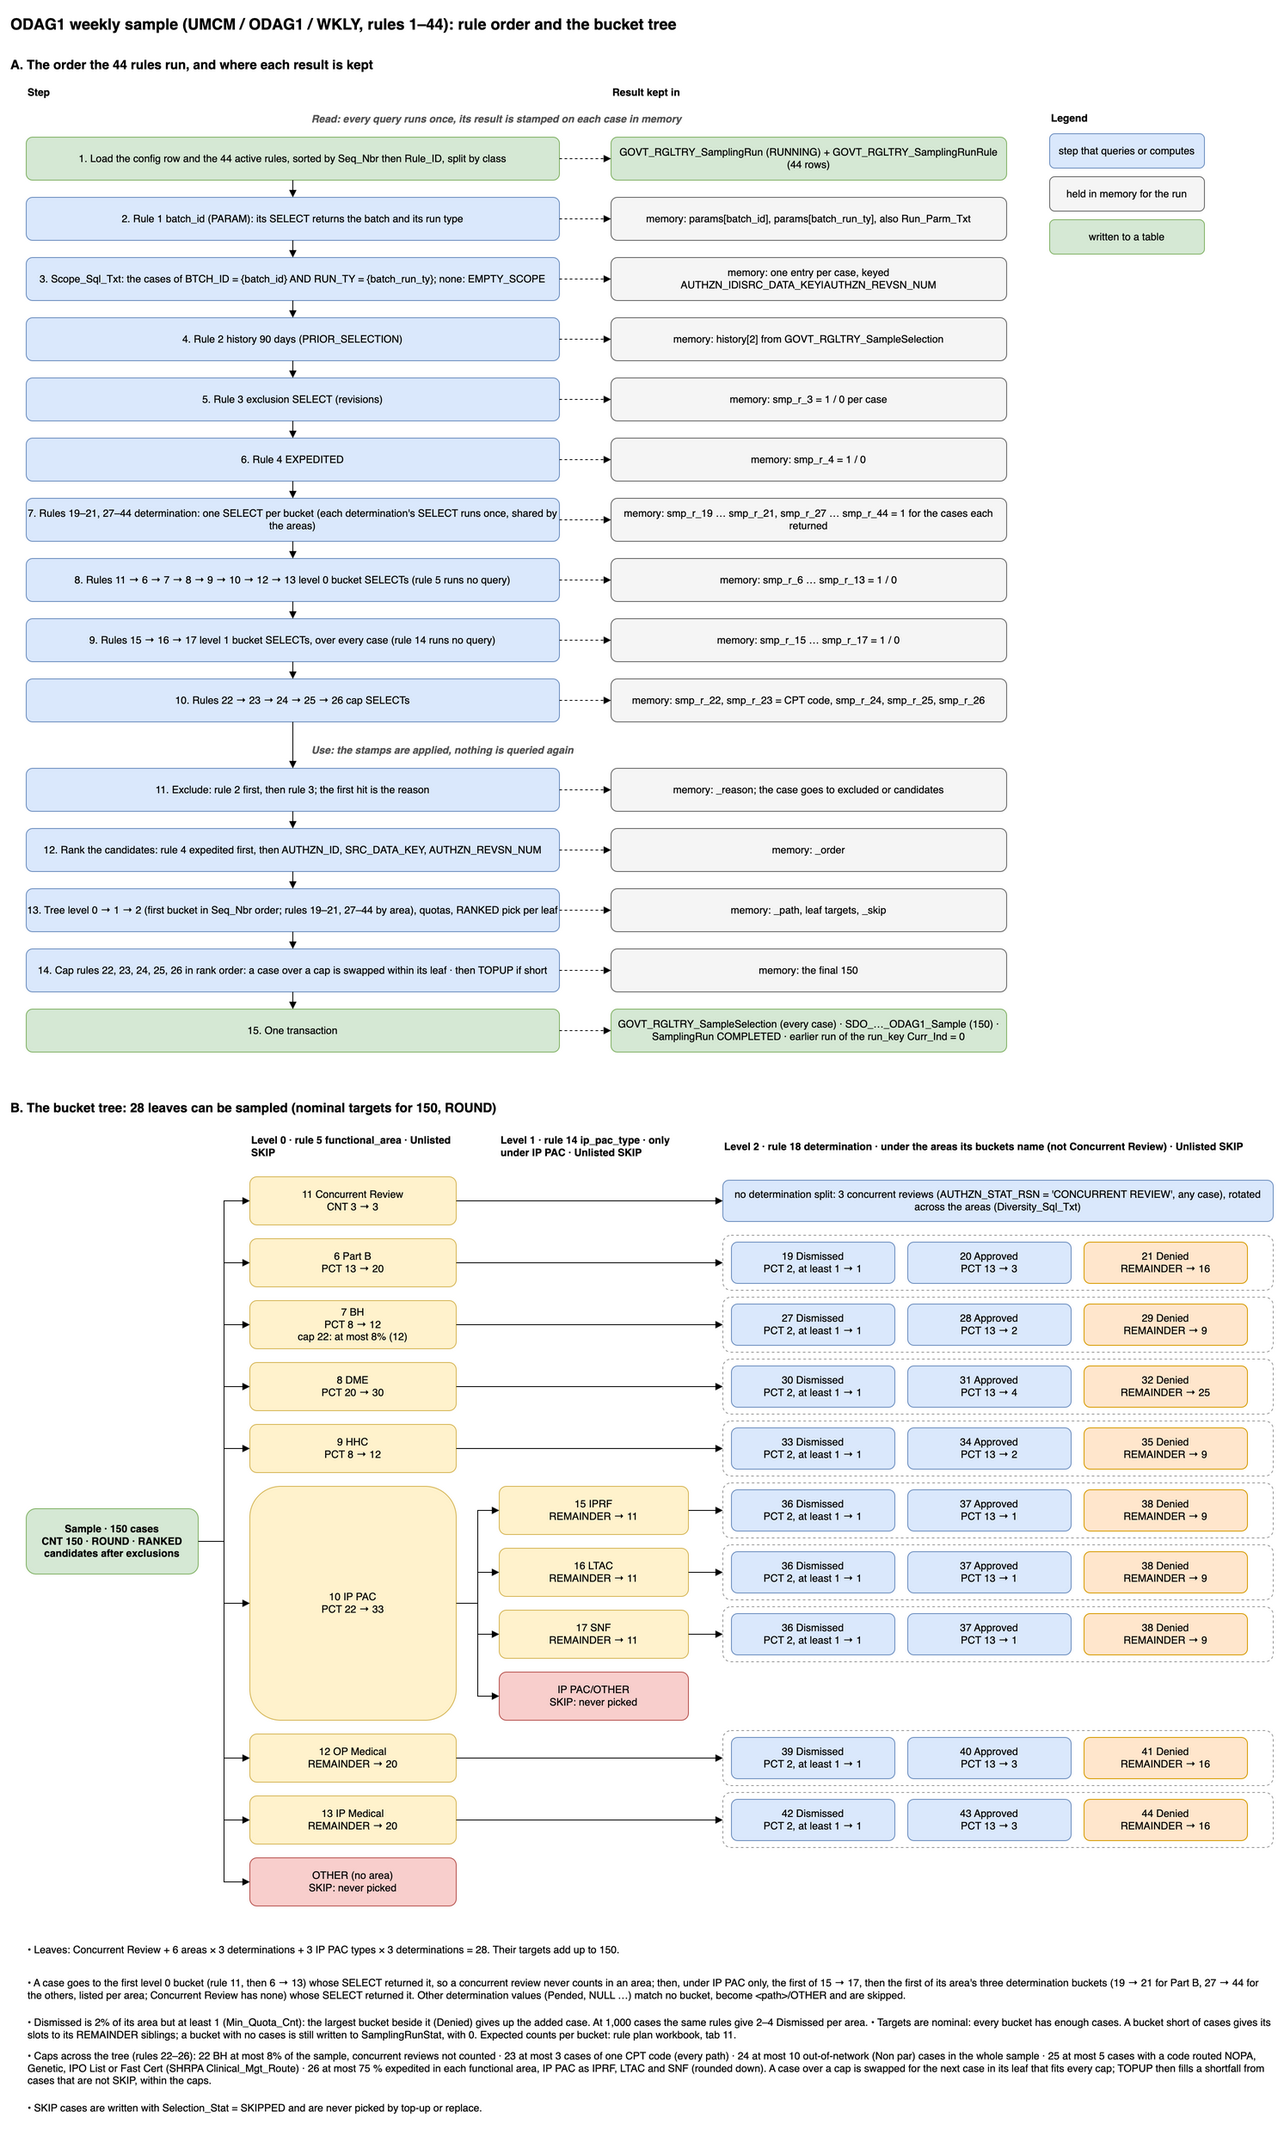
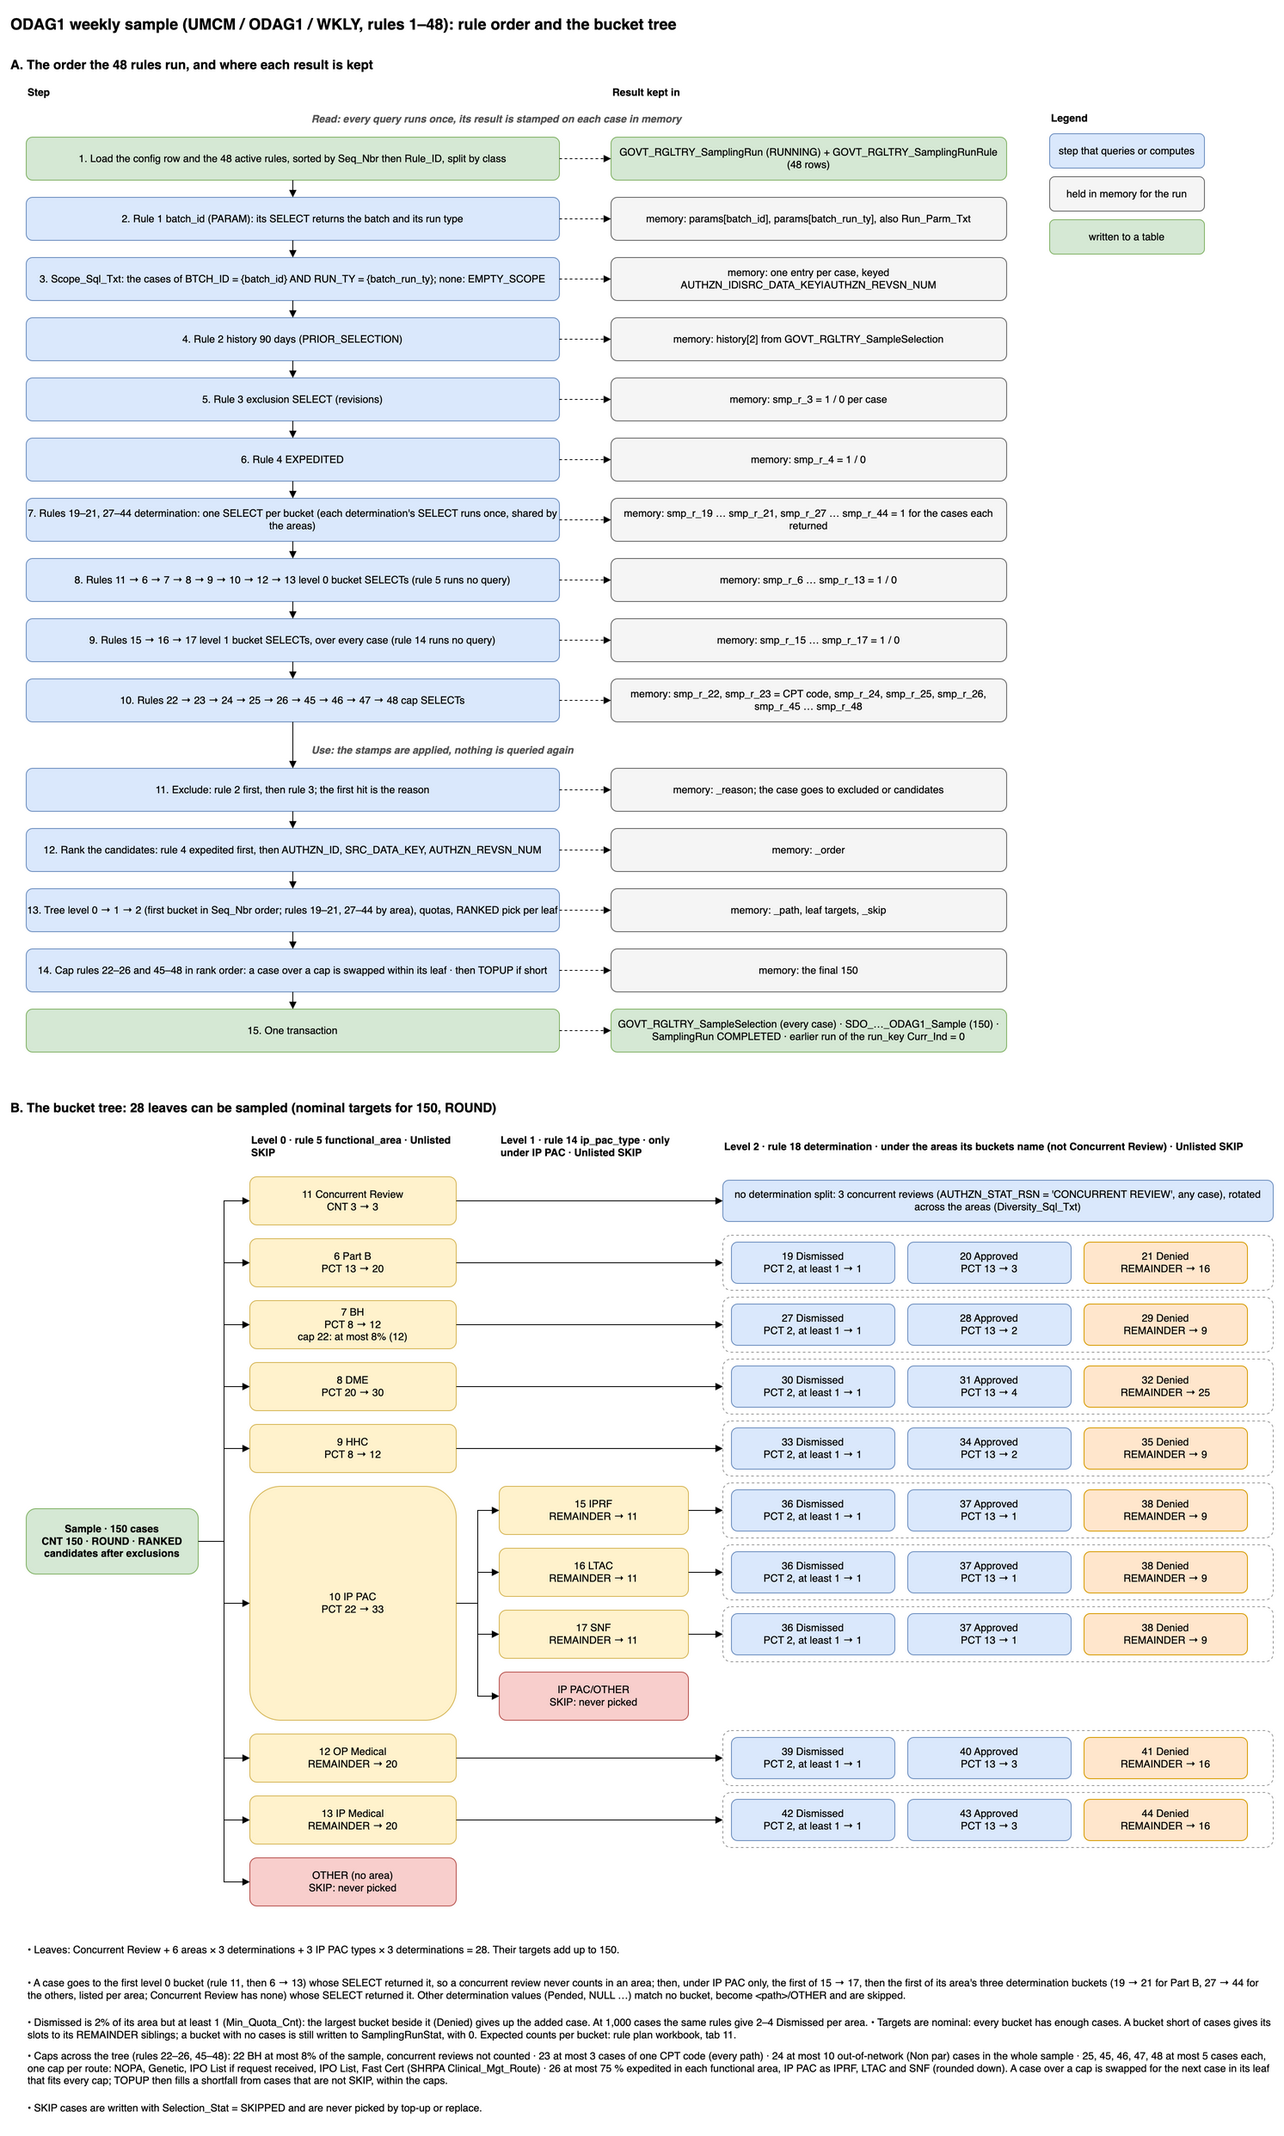
Cap each Source of Truth route at 5 cases a week
Rule 25 capped NOPA, Genetic, IPO List and Fast Cert cases together at 5.
Each route now has its own cap of 5, the two IPO List texts separately:
rule 25 NOPA_MAX_5 plus 45 GENETIC_MAX_5, 46 IPO_LIST_IF_RECEIVED_MAX_5,
47 IPO_LIST_MAX_5 and 48 FAST_CERT_MAX_5.

Changed region(s): [[0.0308, 0.961, 0.9859, 0.9919], [0.493, 0.31, 0.7703, 0.341]]

diff --git a/tests/test_route_caps.py b/tests/test_route_caps.py
@@ -1,0 +1,36 @@
+from datetime import date
+
+from conftest import insert_bucket, insert_config, insert_rule, key
+from sampling.engine import run_sampling
+
+AS_OF = date(2026, 8, 7)
+ROUTES = ("NOPA", "GENETIC", "IPO_IF_RECEIVED", "IPO", "FAST_CERT")
+SELECTED = "SELECT u.route, COUNT(*) FROM GOVT_RGLTRY_SampleSelection s JOIN u ON s.Case_Key = 'case_id=' || u.case_id " \
+           "WHERE s.Selected_Ind = 1 GROUP BY u.route"
+
+
+def _setup(db, target):
+    db.execute("CREATE TABLE u (case_id VARCHAR, route VARCHAR)")
+    rows = [(f"a{n}{i:02d}", route) for n, route in enumerate(ROUTES) for i in range(8)]
+    rows += [(f"z{i:03d}", "OTHER") for i in range(200)]
+    db.executemany("INSERT INTO u VALUES (?, ?)", rows)
+    insert_config(db, src_table_nm="u", exclusion_sql=None, scope_sql_txt=None, target_cnt=target, order_by="case_id")
+    insert_rule(db, "LEVEL", 1, "all", seq_nbr=1, level_nbr=0, unlisted_cd="SKIP")
+    insert_bucket(db, 2, 0, "All", seq_nbr=1, quota_cd="REMAINDER", rule_sql_txt="1 = 1")
+    for n, route in enumerate(ROUTES):
+        insert_rule(db, "CAP", 20 + n, f"{route}_MAX_5", seq_nbr=20 + n, rule_ty="QUERY", parent_path_txt="*",
+                    max_ty="CNT", max_val=5, rule_sql_txt=f"SELECT case_id FROM main.u WHERE route = '{route}'",
+                    raw_sql=True)
+
+
+def test_each_route_has_its_own_cap_of_five(raw, conn, settings):
+    _setup(raw.db, 60)
+    out = run_sampling(conn, settings, key(1), run_key="K", as_of=AS_OF)
+    assert out["status"] == "COMPLETED", out.get("error")
+    assert out["selected"] == 60
+    counts = dict(raw.db.execute(SELECTED).fetchall())
+    assert {r: counts.get(r, 0) for r in ROUTES} == {r: 5 for r in ROUTES}
+    assert counts["OTHER"] == 35
+    for route in ROUTES:
+        assert out["caps"][f"{route}_MAX_5"]["limit"] == 5
+        assert out["caps"][f"{route}_MAX_5"]["over"] == 3

diff --git a/airflow_resources/docs/OPEN_ITEMS.md b/airflow_resources/docs/OPEN_ITEMS.md
@@ -24,7 +24,7 @@ any answer: they become rows.
 | Q15 | The framework's metadata database per environment (the one holding `GOVT_RGLTRY_RequestControl`: `HSABC_DEV` in its example Variable), whether Teradata grants the sampling service account SELECT on it, and ODAG1's `Project_Cd` there (`CMSUNIV` in its example setup). Is the sampling source `SDO_GOVT_RGLTRY_CLNCL_AUD_UM_AUTHZN_ODAG1` (template) or the framework's export `SDO_CMSUNIV_ODAG1_2022`, and does it carry `BTCH_ID`? **Decided 2026-10-30:** `GOVT_RGLTRY_RequestControl` is in `HSABC_$ENV` (`HSABC_DEV` in DEV, `HSABC` in UAT / PROD), written that way in the PARAM rule; the sampling service account can read it. **Answered 2026-11-04:** ODAG1's `Project_Cd` in `GOVT_RGLTRY_RequestControl` is `UMCM` (the sample's own `{project_cd}`); the scope does not filter on the source's `RUN_TY` (the batch decides; **changed 2026-11-16:** rule 1 also returns the batch's `Run_Ty` from `GOVT_RGLTRY_RequestControl` as `{batch_run_ty}`, the scope and every rule filter on `RUN_TY = '{batch_run_ty}'`, and the run fails with `EMPTY_SCOPE` when ODAG1 has no current rows for that batch and run type; a run given `batch_id` and `batch_run_ty` uses them without reading `GOVT_RGLTRY_RequestControl`); the source is `EXPORT_FEED_$ENV_T.SDO_GOVT_RGLTRY_CLNCL_AUD_UM_AUTHZN_ODAG1`, which carries `BTCH_ID` (its DDL was given). | PARAM `batch_id`, `Src_Schema_Nm` / `Src_Table_Nm`, `Scope_Sql_Txt` |
 | Q16 | For the 6-monthly revalidation (8.01): does `HSLABBOSS.UMCM_SHRPA_PROCEDURE_CODES` keep its old row versions with `ETL_LOAD_DT_TM` / `ETL_LAST_UPDT_DT_TM` as ODAG1 does (answered 2026-11-13: ODAG1 keeps them, closed by `ETL_LAST_UPDT_DT_TM`)? **Answered 2026-11-13:** yes: rules 211 and 212 read it with `{current_rows:s}`, so a replay sees SHRPA as it was when the run started. **Changed 2026-11-18:** 211 and 212 are dropped; cap 25 reads SHRPA the same way | cap 25 |
 | Q18 | What Pre Cert cases are and how to identify them on the auths **Open 2026-11-16:** the business is looking into it, ETA Tuesday 2026-11-17. Until then Pre Cert is not used (Q2) | a level 0 BUCKET rule |
-| Q19 | Codes the Source of Truth caps at 5 a week **Answered 2026-11-18:** column R of the Source of Truth is SHRPA's `Clinical_Mgt_Route`. A case counts when any code of `CPT_PROC_CD` has one of these routes (without the 'Cap at 5 per week' comment; **changed 2026-11-18:** compared with every space and hyphen removed and in capitals, `UPPER(OREPLACE(OREPLACE(Clinical_Mgt_Route, ' ', ''), '-', ''))`, by keywords rather than the full text, so spacing, hyphens, case and extra words do not matter: `LIKE` `'%NOPA%APPROVEPAR%PENDOON%'`, `'%FASTCERT%APPROVEPAR%PENDOON%'`, `'%GENETIC%ADMINISTRATIVELYAPPROVE%NONETWORKREVIEW%'`, `'%IPOLIST%APPROVEANDPLACEINCONCURRENTREVIEW%'`. Checked against all 33 values of the column: only the five routes match; `NOPA - Non Covered`, `NOPA`, `ASC Site of Service Fast Cert - …`, `Genetic Testing: …` and `IPO List. Medical Necessity Review Required …` do not): `NOPA - Approve PAR.  Pend OON.`, `Genetic:  Administratively Approve - No Network Review Required`, `IPO List.  Approve and place in concurrent review if request received.`, `IPO List.  Approve and place in Concurrent Review`, `Fast Cert - Approve PAR.  Pend OON.` All of them share one cap of 5 cases in the 150. **Checked 2026-11-18** against the column's values: the texts are as the data has them (two spaces after `PAR.`, after `Genetic:` and after `IPO List.`; no full stop after the second IPO List text; `concurrent review` in lower case in the first) | CAP rule 25 |
+| Q19 | Codes the Source of Truth caps at 5 a week **Answered 2026-11-18:** column R of the Source of Truth is SHRPA's `Clinical_Mgt_Route`. A case counts when any code of `CPT_PROC_CD` has one of these routes (without the 'Cap at 5 per week' comment; **changed 2026-11-18:** compared with every space and hyphen removed and in capitals, `UPPER(OREPLACE(OREPLACE(Clinical_Mgt_Route, ' ', ''), '-', ''))`, by keywords rather than the full text, so spacing, hyphens, case and extra words do not matter: `LIKE` `'%NOPA%APPROVEPAR%PENDOON%'`, `'%FASTCERT%APPROVEPAR%PENDOON%'`, `'%GENETIC%ADMINISTRATIVELYAPPROVE%NONETWORKREVIEW%'`, `'%IPOLIST%APPROVEANDPLACEINCONCURRENTREVIEW%'`. Checked against all 33 values of the column: only the five routes match; `NOPA - Non Covered`, `NOPA`, `ASC Site of Service Fast Cert - …`, `Genetic Testing: …` and `IPO List. Medical Necessity Review Required …` do not): `NOPA - Approve PAR.  Pend OON.`, `Genetic:  Administratively Approve - No Network Review Required`, `IPO List.  Approve and place in concurrent review if request received.`, `IPO List.  Approve and place in Concurrent Review`, `Fast Cert - Approve PAR.  Pend OON.` **Changed 2026-11-19:** each route has its own cap of 5 cases a week, the two IPO List texts separately (rules 25, 45, 46, 47, 48; at most 25 such cases in the 150), replacing one shared cap of 5. A case with codes in two routes counts towards both caps. **Checked 2026-11-18** against the column's values: the texts are as the data has them (two spaces after `PAR.`, after `Genetic:` and after `IPO List.`; no full stop after the second IPO List text; `concurrent review` in lower case in the first) | CAP rules 25, 45–48 |
 
 ## B. Data the requirements need that sampling cannot supply
 
@@ -54,7 +54,7 @@ historic data requirement), and the concurrent review flag (confirmed 2026-11-16
 
 ## D. The ODAG1 rows known so far (sample `UMCM` / `ODAG1` / `WKLY`, to enter with `Active_Ind = 0`)
 
-**Added 2026-11-19:** the determination buckets are listed per area (rules 27–44 added, 44 rules), replacing the parent `[!C]*`, which matched any area starting with C. A new area gets no determination split until its three rows are added. **Changed 2026-11-19:** the config's `Run_Key_Txt` `{batch_id}` sets the run key, so every run is tied to its batch (a `run_key` in the Variable or a trigger that differs fails the run); every text comparison in the rules and the dashboard views is `UPPER(TRIM(col)) = 'UPPER VALUE'`, so a value's case never decides whether it matches; Dismissed is `PCT` 2 with a new rule column `Min_Quota_Cnt` 1 per area (and per IP PAC type), so it is at least 1 case where 2 % rounds to 0 and still 2 % when the sample grows (1,000 cases), the largest bucket of the area giving up the added case; concurrent reviews rotate across the areas and do not count against the BH cap; the executed SQL is kept whole (`CLOB`). **Renumbered 2026-11-18:** the rule IDs are now 1–26 in run order. Old to new: 201→1, 210→2, 214→3, 221→4, 231→5, 232→6, 233→7, 234→8, 235→9, 236→10, 237→11, 238→12, 239→13, 241→14, 242→15, 243→16, 244→17, 251→18, 252→19, 253→20, 254→21, 260→22, 261→23, 262→24, 263→25, 271→26. IDs 211, 212, 213 and 220 were dropped before the renumbering and have no new ID. Answers in section A were rewritten to the new IDs where the rule still exists. The reload deletes `WHERE Project_Cd = 'UMCM'` instead of `Rule_ID BETWEEN 200 AND 299`. A one-line summary of every rule is in `ODAG1_WKLY_RULES.md`.
+**Changed 2026-11-19:** the capped routes (Q19) have one cap of 5 each: rule 25 `NOPA_MAX_5` plus 45 `GENETIC_MAX_5`, 46 `IPO_LIST_IF_RECEIVED_MAX_5`, 47 `IPO_LIST_MAX_5` and 48 `FAST_CERT_MAX_5` (48 rules). **Added 2026-11-19:** the determination buckets are listed per area (rules 27–44 added, 44 rules), replacing the parent `[!C]*`, which matched any area starting with C. A new area gets no determination split until its three rows are added. **Changed 2026-11-19:** the config's `Run_Key_Txt` `{batch_id}` sets the run key, so every run is tied to its batch (a `run_key` in the Variable or a trigger that differs fails the run); every text comparison in the rules and the dashboard views is `UPPER(TRIM(col)) = 'UPPER VALUE'`, so a value's case never decides whether it matches; Dismissed is `PCT` 2 with a new rule column `Min_Quota_Cnt` 1 per area (and per IP PAC type), so it is at least 1 case where 2 % rounds to 0 and still 2 % when the sample grows (1,000 cases), the largest bucket of the area giving up the added case; concurrent reviews rotate across the areas and do not count against the BH cap; the executed SQL is kept whole (`CLOB`). **Renumbered 2026-11-18:** the rule IDs are now 1–26 in run order. Old to new: 201→1, 210→2, 214→3, 221→4, 231→5, 232→6, 233→7, 234→8, 235→9, 236→10, 237→11, 238→12, 239→13, 241→14, 242→15, 243→16, 244→17, 251→18, 252→19, 253→20, 254→21, 260→22, 261→23, 262→24, 263→25, 271→26. IDs 211, 212, 213 and 220 were dropped before the renumbering and have no new ID. Answers in section A were rewritten to the new IDs where the rule still exists. The reload deletes `WHERE Project_Cd = 'UMCM'` instead of `Rule_ID BETWEEN 200 AND 299`. A one-line summary of every rule is in `ODAG1_WKLY_RULES.md`.
 
 The INSERT statements for all of them are in `ODAG1_WKLY_inserts.sql` (the config with `Active_Ind = 0`). These rows are entered in `GOVT_RGLTRY_SamplingConfig` / `GOVT_RGLTRY_SamplingRule` once
 their TODOs are answered, then `Active_Ind = 1` and `validate --project UMCM --table ODAG1 --run-type WKLY
@@ -99,5 +99,9 @@ the same rows). The other rows are ODAG1 weekly only.
 | 22 | `ODAG1` / `WKLY` | CAP | 1 | `BH_MAX_8_PCT` | `QUERY`, parent `*`, `PCT` 8 (of the 150) | the BH SELECT of 7 `AND COALESCE(UPPER(TRIM(AUTHZN_STAT_RSN)), '') <> 'CONCURRENT REVIEW'`: concurrent reviews do not count (2026-11-19) |
 | 23 | `ODAG1` / `WKLY` | CAP | 2 | `PER_CPT_CODE` | `PER_VALUE`, parent `*`, `CNT` 3 | `SELECT AUTHZN_ID, SRC_DATA_KEY, AUTHZN_REVSN_NUM, NULLIF(OREPLACE(CPT_PROC_CD, ' ', ''), '') AS CPT_PROC_CD FROM <ODAG1> WHERE <CURRENT>` |
 | 24 | `ODAG1` / `WKLY` | CAP | 3 | `OON_MAX_10` | `QUERY`, parent `*`, `CNT` 10 (the whole sample) | `SELECT AUTHZN_ID, SRC_DATA_KEY, AUTHZN_REVSN_NUM FROM <ODAG1> WHERE <CURRENT> AND UPPER(TRIM(SVC_PROV_TY)) = 'NON PAR'` |
-| 25 | `ODAG1` / `WKLY` | CAP | 4 | `CAPPED_ROUTES_MAX_5` | `QUERY`, parent `*`, `CNT` 5 (the whole sample) | `SELECT o.AUTHZN_ID, o.SRC_DATA_KEY, o.AUTHZN_REVSN_NUM FROM <ODAG1> o WHERE <CURRENT> AND EXISTS (SELECT 1 FROM HSLABBOSS.UMCM_SHRPA_PROCEDURE_CODES s WHERE {current_rows:s} AND <Clinical_Mgt_Route without spaces and hyphens, in capitals> LIKE <one of the 4 keyword patterns of Q19> AND <code in o.CPT_PROC_CD>)` |
+| 25 | `ODAG1` / `WKLY` | CAP | 4 | `NOPA_MAX_5` | `QUERY`, parent `*`, `CNT` 5 (the whole sample) | `SELECT o.AUTHZN_ID, o.SRC_DATA_KEY, o.AUTHZN_REVSN_NUM FROM <ODAG1> o WHERE <CURRENT> AND EXISTS (SELECT 1 FROM HSLABBOSS.UMCM_SHRPA_PROCEDURE_CODES s WHERE {current_rows:s} AND <Clinical_Mgt_Route without spaces and hyphens, in capitals> LIKE '%NOPA%APPROVEPAR%PENDOON%' AND <code in o.CPT_PROC_CD>)` |
+| 45 | `ODAG1` / `WKLY` | CAP | 6 | `GENETIC_MAX_5` | `QUERY`, parent `*`, `CNT` 5 (the whole sample) | `SELECT o.AUTHZN_ID, o.SRC_DATA_KEY, o.AUTHZN_REVSN_NUM FROM <ODAG1> o WHERE <CURRENT> AND EXISTS (SELECT 1 FROM HSLABBOSS.UMCM_SHRPA_PROCEDURE_CODES s WHERE {current_rows:s} AND <Clinical_Mgt_Route without spaces and hyphens, in capitals> LIKE '%GENETIC%ADMINISTRATIVELYAPPROVE%NONETWORKREVIEW%' AND <code in o.CPT_PROC_CD>)` |
+| 46 | `ODAG1` / `WKLY` | CAP | 7 | `IPO_LIST_IF_RECEIVED_MAX_5` | `QUERY`, parent `*`, `CNT` 5 (the whole sample) | `SELECT o.AUTHZN_ID, o.SRC_DATA_KEY, o.AUTHZN_REVSN_NUM FROM <ODAG1> o WHERE <CURRENT> AND EXISTS (SELECT 1 FROM HSLABBOSS.UMCM_SHRPA_PROCEDURE_CODES s WHERE {current_rows:s} AND <Clinical_Mgt_Route without spaces and hyphens, in capitals> LIKE '%IPOLIST%APPROVEANDPLACEINCONCURRENTREVIEWIFREQUESTRECEIVED%' AND <code in o.CPT_PROC_CD>)` |
+| 47 | `ODAG1` / `WKLY` | CAP | 8 | `IPO_LIST_MAX_5` | `QUERY`, parent `*`, `CNT` 5 (the whole sample) | `SELECT o.AUTHZN_ID, o.SRC_DATA_KEY, o.AUTHZN_REVSN_NUM FROM <ODAG1> o WHERE <CURRENT> AND EXISTS (SELECT 1 FROM HSLABBOSS.UMCM_SHRPA_PROCEDURE_CODES s WHERE {current_rows:s} AND <Clinical_Mgt_Route without spaces and hyphens, in capitals> LIKE '%IPOLIST%APPROVEANDPLACEINCONCURRENTREVIEW%' AND NOT LIKE '%IPOLIST%APPROVEANDPLACEINCONCURRENTREVIEWIFREQUESTRECEIVED%' AND <code in o.CPT_PROC_CD>)` |
+| 48 | `ODAG1` / `WKLY` | CAP | 9 | `FAST_CERT_MAX_5` | `QUERY`, parent `*`, `CNT` 5 (the whole sample) | `SELECT o.AUTHZN_ID, o.SRC_DATA_KEY, o.AUTHZN_REVSN_NUM FROM <ODAG1> o WHERE <CURRENT> AND EXISTS (SELECT 1 FROM HSLABBOSS.UMCM_SHRPA_PROCEDURE_CODES s WHERE {current_rows:s} AND <Clinical_Mgt_Route without spaces and hyphens, in capitals> LIKE '%FASTCERT%APPROVEPAR%PENDOON%' AND <code in o.CPT_PROC_CD>)` |
 | 26 | `ODAG1` / `WKLY` | CAP | 5 | `EXPEDITED_MAX_75_PCT` | `PER_BUCKET`, `Level_Nbr` 1, parent `*`, `PCT` 75 of each bucket's target, rounded down (each area; IP PAC as IPRF, LTAC, SNF) | `SELECT AUTHZN_ID, SRC_DATA_KEY, AUTHZN_REVSN_NUM FROM <ODAG1> WHERE <CURRENT> AND AUTHZN_REQ_STD_OR_EXPDT_IND = 'E'` |

diff --git a/airflow_resources/docs/ODAG1_WKLY_RULES.md b/airflow_resources/docs/ODAG1_WKLY_RULES.md
@@ -1,6 +1,6 @@
 # ODAG1 weekly rules (UMCM / ODAG1 / WKLY)
 
-The 44 rules of the ODAG1 weekly sample, as loaded by `local_hslabboss/ODAG1_WKLY_HSLABBOSS_dml.sql` and `ODAG1_WKLY_inserts.sql`. Full SQL and settings are in those files. Rules 19–21 and 27–44 split each area by determination, one set of three per area.
+The 48 rules of the ODAG1 weekly sample, as loaded by `local_hslabboss/ODAG1_WKLY_HSLABBOSS_dml.sql` and `ODAG1_WKLY_inserts.sql`. Full SQL and settings are in those files. Rules 19–21 and 27–44 split each area by determination, one set of three per area. Rules 25 and 45–48 cap each Source of Truth route at 5 cases a week, one cap per route.
 
 | Rule_ID | Rule_Nm | Class | Description |
 |---|---|---|---|
@@ -46,5 +46,9 @@ The 44 rules of the ODAG1 weekly sample, as loaded by `local_hslabboss/ODAG1_WKL
 | 22 | `BH_MAX_8_PCT` | CAP | No more than 8% of the sample from behavioral health, top-up included; concurrent reviews do not count |
 | 23 | `PER_CPT_CODE` | CAP | No more than 3 cases with the same list of procedure codes |
 | 24 | `OON_MAX_10` | CAP | No more than 10 out-of-network cases in the whole sample |
-| 25 | `CAPPED_ROUTES_MAX_5` | CAP | No more than 5 cases in the whole sample with a procedure code routed as NOPA, Genetic, IPO List or Fast Cert (Clinical_Mgt_Route in SHRPA) |
+| 25 | `NOPA_MAX_5` | CAP | No more than 5 cases in the whole sample with a procedure code routed 'NOPA - Approve PAR. Pend OON.' (Clinical_Mgt_Route in SHRPA) |
 | 26 | `EXPEDITED_MAX_75_PCT` | CAP | No more than 75% expedited cases in each area, with IPRF, LTAC and SNF counted separately |
+| 45 | `GENETIC_MAX_5` | CAP | No more than 5 cases in the whole sample with a procedure code routed 'Genetic: Administratively Approve - No Network Review Required' (Clinical_Mgt_Route in SHRPA) |
+| 46 | `IPO_LIST_IF_RECEIVED_MAX_5` | CAP | No more than 5 cases in the whole sample with a procedure code routed 'IPO List. Approve and place in concurrent review if request received.' (Clinical_Mgt_Route in SHRPA) |
+| 47 | `IPO_LIST_MAX_5` | CAP | No more than 5 cases in the whole sample with a procedure code routed 'IPO List. Approve and place in Concurrent Review (without if request received)' (Clinical_Mgt_Route in SHRPA) |
+| 48 | `FAST_CERT_MAX_5` | CAP | No more than 5 cases in the whole sample with a procedure code routed 'Fast Cert - Approve PAR. Pend OON.' (Clinical_Mgt_Route in SHRPA) |
